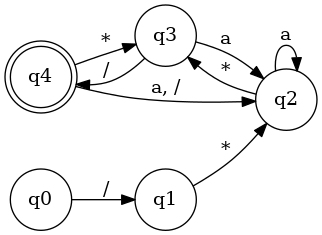
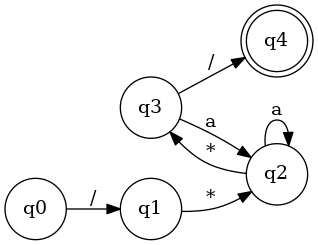
es1.7 fix es 1.8

diff --git a/src/LFT/A2016/cap1/Comma8.java b/src/LFT/A2016/cap1/Comma8.java
@@ -14,29 +14,31 @@ import main.java.com.opendfa.DFAModel;
  *
  * @author Giuseppe
  */
-public class Comma7 extends DFAModel {
+public class Comma8 extends DFAModel {
 
     @Override
     protected int numState() {
-        return 10;
+        return 4;
     }
 
     @Override
     protected void initializeDFA() {
 
+        setMove(0, new RangeChar(new char[]{'a' , '*'}), 0);
         setMove(0, '/', 1);    
         setMove(1, '*', 2);
         setMove(2, 'a', 2);
         setMove(2, '*', 3);
         setMove(3, 'a', 2);
-        setMove(3, '/', 4);
-        addFinalState(4);        
+        setMove(3, '/', 0);
+        addFinalState(0);
+        addFinalState(1);  
 
     }
 
     public static void main(String[] args) throws Exception {
 
-        Comma7 comma = new Comma7();
+        Comma8 comma = new Comma8();
 
         //comma.minimize();
         /*BUG 6-12-2016: Minimize currently not working properly*/
@@ -46,13 +48,13 @@ public class Comma7 extends DFAModel {
 //        System.out.println("Type the line:");
 //        String line = reader.readLine();
 //        System.out.println(comma.scan(line));
-        
+//        
         String outputDir = "/home/terasud/NetBeansProjects/LFT/src/LFT/A2016/cap1/";
-        System.out.println(comma.toJava("Es1Comma7_Code"));
-        comma.writeToJava("Es1Comma7_Code", outputDir);
-        System.out.println(comma.toDot("Es1Comma7_Dot"));
-        comma.writeToDot("Es1Comma7_Dot", outputDir);
-        comma.ToPng("Es1Comma7_Png", outputDir);
+        System.out.println(comma.toJava("Es1Comma8_Code"));
+        comma.writeToJava("Es1Comma8_Code", outputDir);
+        System.out.println(comma.toDot("Es1Comma8_Dot"));
+        comma.writeToDot("Es1Comma8_Dot", outputDir);
+        comma.ToPng("Es1Comma8_Png", outputDir);
     }
 
 }

diff --git a/src/LFT/A2016/cap1/Es1Comma8_Code.java b/src/LFT/A2016/cap1/Es1Comma8_Code.java
@@ -1,4 +1,4 @@
-public class Es1Comma7_Code {
+public class Es1Comma8_Code {
 	public static boolean scan(String s)
 	{
 		int state = 0;
@@ -7,7 +7,9 @@ public class Es1Comma7_Code {
 		final char ch = s.charAt(i++);
 		switch(state) {
 			 case 0: 
-				 if(  ch == '/' ) 
+				 if(  ch == 'a' ||  ch == '*' ) 
+					 state = 0;
+				 else if(  ch == '/' ) 
 					 state = 1;
 				 else 
 					 state = -1; 
@@ -28,7 +30,7 @@ public class Es1Comma7_Code {
 				 break; 
 			 case 3: 
 				 if(  ch == '/' ) 
-					 state = 4;
+					 state = 0;
 				 else if(  ch == 'a' ) 
 					 state = 2;
 				 else 
@@ -36,7 +38,7 @@ public class Es1Comma7_Code {
 				 break; 
 			}
 		}
-		return state == 4;
+		return state == 0;
 		}
 	public static void main(String[] args)
 	{
